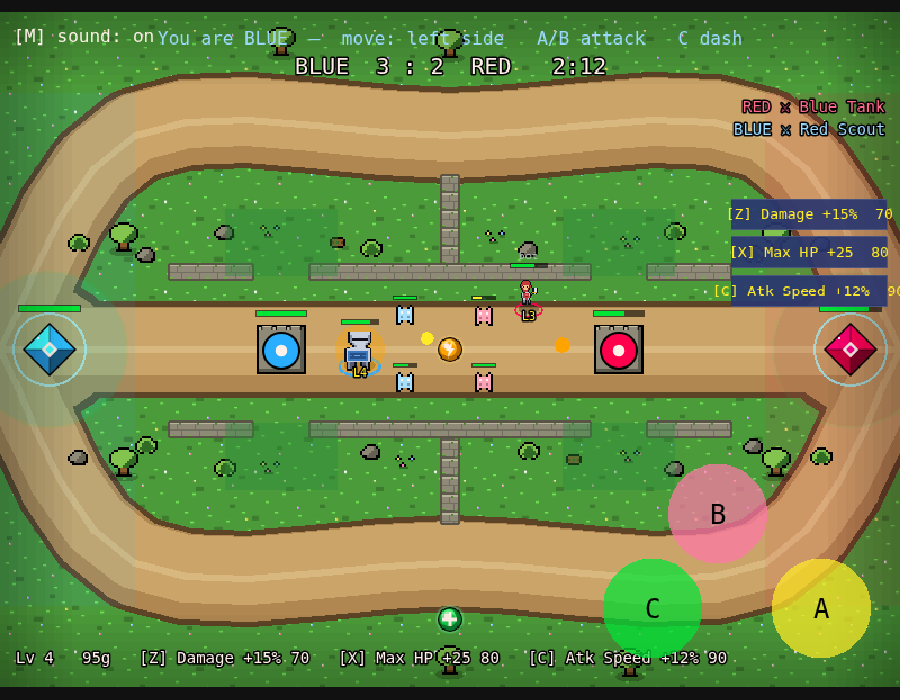
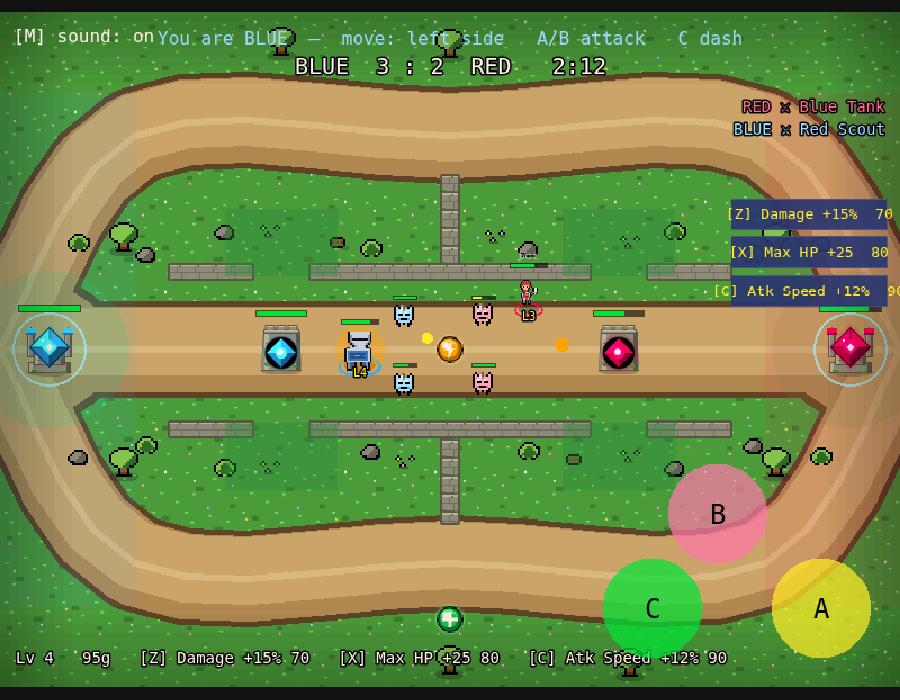
Docs: handover + screenshots for iteration 4 polish
Note the projectile-trails and base-art commits in HANDOVER (66 test
groups, eight polish commits total) and refresh the map/match/win
screenshots showing the new mossy-stone bases, towers, and bolt trails.

https://claude.ai/code/session_01MAXKRUpJFcKFAvV2b8xTXo

diff --git a/HANDOVER.md b/HANDOVER.md
@@ -15,10 +15,14 @@
 >   `config.js` `DMGTEXT`, m43); and **sharper goblin lane-minions** (crisper
 >   silhouette + club, team tint + 20x20 size preserved, m44); a **death poof**
 >   (dusty puff + ring burst when a hero dies or a minion leaves the snapshot,
->   team-tinted, `config.js` `POOF`, m45); and **mossy-stone guard towers** with a
+>   team-tinted, `config.js` `POOF`, m45); **mossy-stone guard towers** with a
 >   glowing team crystal (crenellated turret, 44x44 size + team colours preserved,
->   m46). All six polish commits are client/render-only (no snapshot or server
->   change). Before that: art-coherence pass on the grassland "glades" look —
+>   m46); **fading projectile trails** (bolts drop short ghost dots in their own
+>   colour, hard-capped so they never leak, `config.js` `TRAIL`, m47); and a
+>   **grand mossy-stone base/nexus keep** (stepped plinth + banners + big team
+>   crystal, 48x48 size + shield overlay preserved, m48). All eight polish commits
+>   are client/render-only (no snapshot or server change). Before that:
+>   art-coherence pass on the grassland "glades" look —
 >   hero touch-ups (rebuilt tank as a great-helm + tower shield, single-bit
 >   brawler axe, attached knight shield, wood ranger bow, clearer scout dagger;
 >   all in `src/rpgsprites.js`), goblin lane minions, a darker forest camp, and
@@ -30,7 +34,7 @@
 >   m39); curved MOBA lanes + nexus plazas; "Tiny RPG" heroes on team rings;
 >   chokepoints removed (lanes are OPEN — towers are landmarks, not walls);
 >   jungle gank gaps; per-hero abilities.
-> **Status:** all tests green (63 test groups), live two-browser test green, build OK.
+> **Status:** all tests green (66 test groups), live two-browser test green, build OK.
 >
 > ⚠ **WORK FROM THE BRANCH, NOT `main`.** All work lives on
 > **`claude/pixel-moba-game-WobPa`** (PR #1 → `main`). `main` is the empty root
